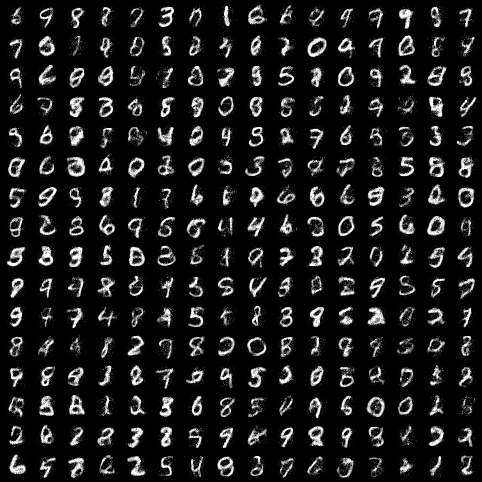
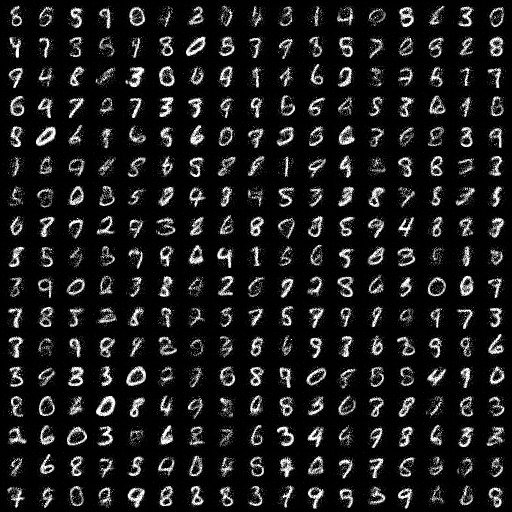
NICE readme update

diff --git a/NICE/README.md b/NICE/README.md
@@ -1,41 +1,20 @@
 # NICE: Non-linear Independent Components Estimation
 
-PyTorch implementation of [NICE](https://arxiv.org/abs/1410.8516), by Laurent Dinh, David Krueger and Yoshua Bengio. 
+PyTorch implementation of [NICE](https://arxiv.org/abs/1410.8516), by Laurent Dinh, David Krueger and Yoshua Bengio.
+
+Here are 289 images generated by the model trained on MNIST:
 
 ![sample generated by model](./images/sample.png)
 
-Achieved a test-set log likelihood of `1974.36` on epoch 75 (authors reported `1980.50`)
-
-## Usage
-```bash
-python train.py
-```
-The train.py script accepts the following arguments:
-
-```bash
-optional arguments:
-  -h, --help           show this help message and exit
-  --batch-size N       input batch size for training (default: 64)
-  --test-batch-size N  input batch size for testing (default: 256)
-  --epochs N           number of epochs to train (default: 75)
-  --cuda               train on CUDA (default: True)
-  -j N, --workers N    number of data loading workers (default: 4)
-  --log-interval N     how many batches to wait before logging training status (default: 100)
-```
+Achieved a test-set log likelihood of `2061.01` on epoch `14`
 
 ## Run settings
-- Trained on [Colab](https://colab.google/)
-- Prior: Logistic
-	- [Logistic distribution in PyTorch](https://pytorch.org/docs/stable/distributions.html#torch.distributions.transformed_distribution.TransformedDistribution)
-- 4 additive coupling layers
-	- ReLU activation function; 5 hidden layers with 1000 units and no batch normalization
-- Optimizer: Adam (default hyperparameters); exponential learning rate decay
-- Dequantization: Uniform (add uniform noise, divide by 256)
-
-| Batch size | Number of epochs | Initial lr | gamma | 
-| ---------- | ---------------- | ---------- | ----- |
-| `64`         | `75`               | `1e-3`       | `0.9`   |
-
+- Trained on Colab's V100
+- Optimizer: `Adam`
+    - Initial learning rate: `2e-3`
+        - Cosine annealing LR scheduler
+- Batch size: `256`
+- Number of training steps: `~2925` (14 epochs)
 
 ## Helpful references
 References that helped me during implementation:
@@ -45,4 +24,4 @@ References that helped me during implementation:
 	- Introduces flow-based models and talks about his implementation of [Real NVP](https://arxiv.org/abs/1605.08803). Helped me a lot with NICE (especially his section on data preprocessing)
 - https://uvadlc-notebooks.readthedocs.io/en/latest/tutorial_notebooks/tutorial11/NF_image_modeling.html#Dequantization
 - MaximeVandegar's [implementation](https://github.com/MaximeVandegar/Papers-in-100-Lines-of-Code/tree/main/NICE_Non_linear_Independent_Components_Estimation) of NICE
-	- Delightfully simple
+- https://pytorch.org/docs/stable/distributions.html#torch.distributions.transformed_distribution.TransformedDistribution
